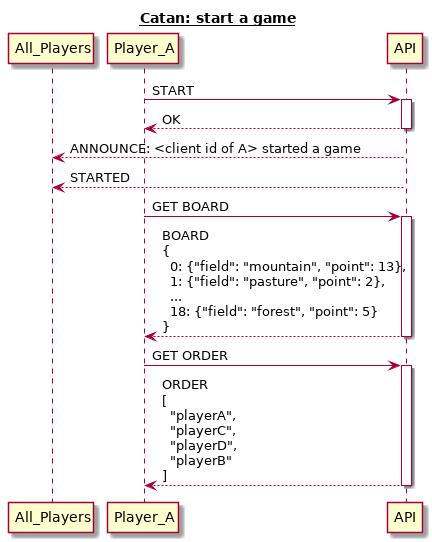
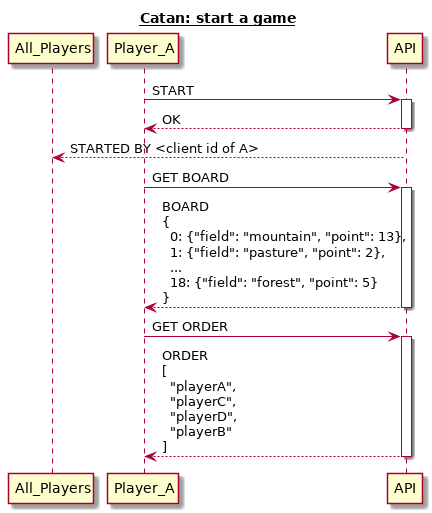
docs: update diagram of start and add set_first_settlement

diff --git a/docs/sequence/02_set_first_settlement/README.md b/docs/sequence/02_set_first_settlement/README.md
@@ -1,0 +1,1 @@
+![img](./set_first_settlement.png)
